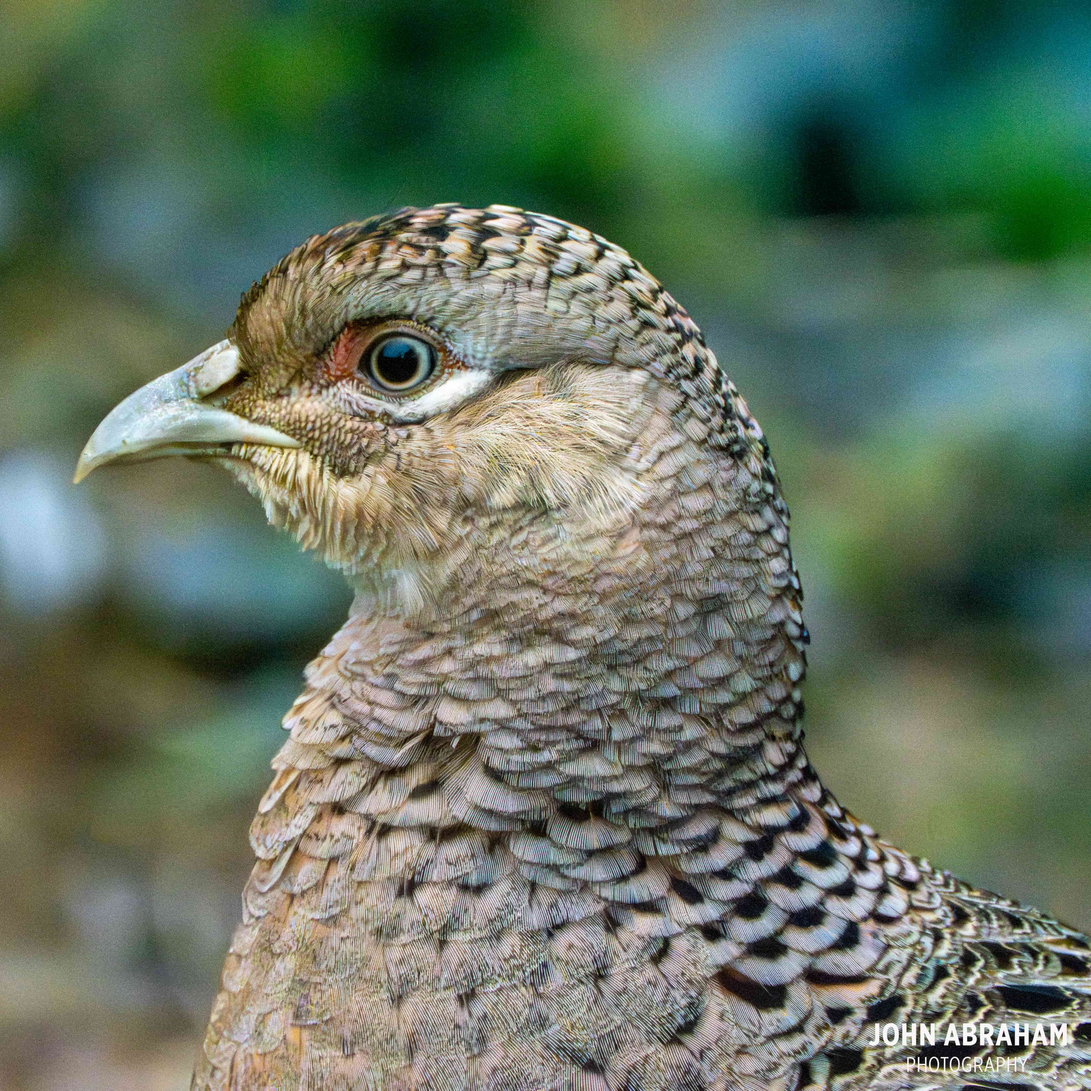
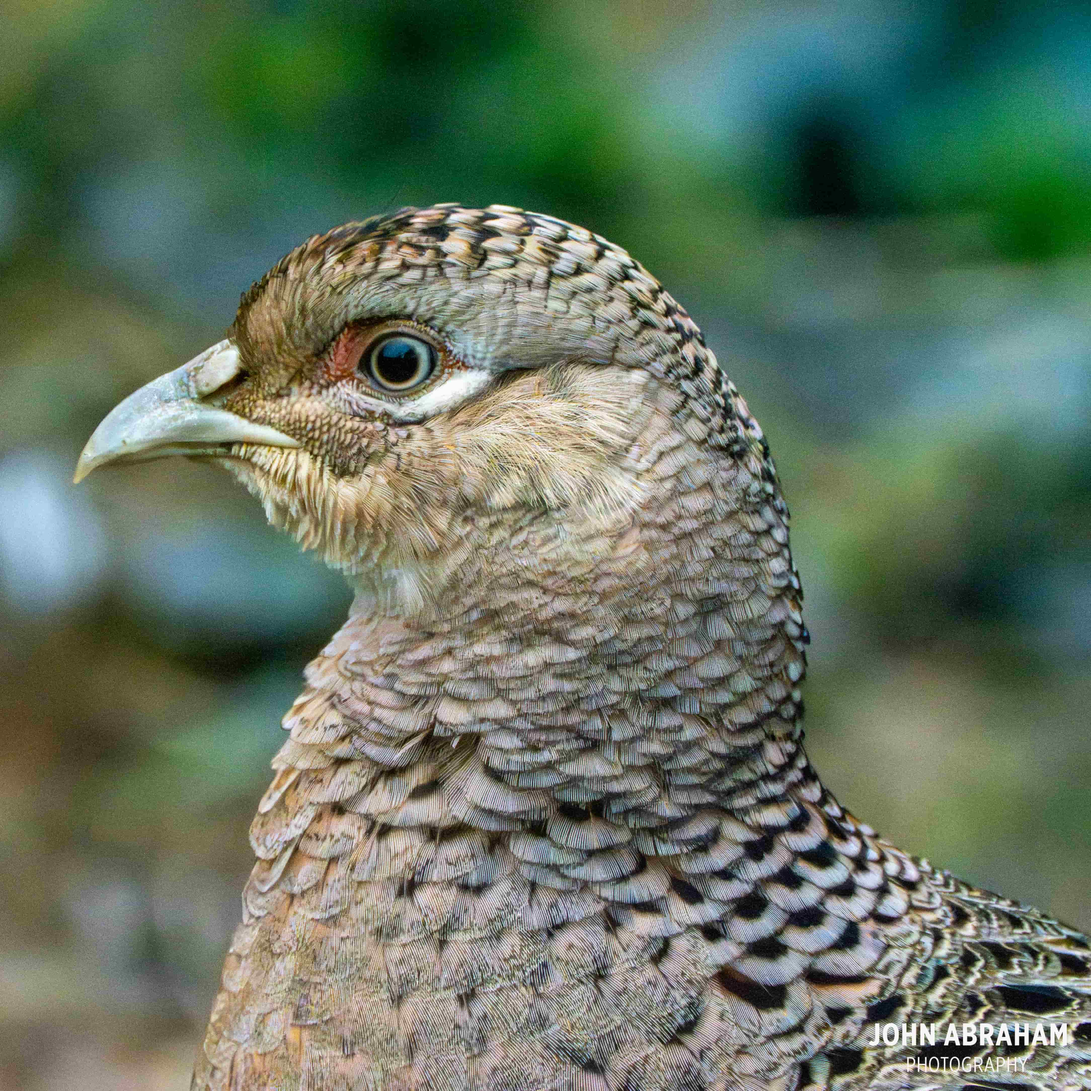
Finished gallery

diff --git a/contact.html b/contact.html
@@ -25,37 +25,37 @@
             <a href="index.html">HOME</a>
             <a href="gallery.html">GALLERY</a>
             <a href="blog.html">BLOG</a>
-            <a href="assets/css/contact.html">CONTACT</a>
+            <a href="contact.html">CONTACT</a>
 
         </nav>
     </header>
 
-    <p>
-        Lorem ipsum dolor sit amet consectetur adipisicing elit. Voluptatibus ex ipsa impedit. Velit est dolor iure, eos
-        et minima qui rem fuga distinctio eum eius nesciunt esse magni quas in?
-        Laborum et accusamus delectus! Inventore nobis, dicta quasi labore officia, distinctio officiis temporibus
-        tempora ratione autem ipsum iusto fugit rerum debitis earum voluptatum minus dolore tenetur, amet placeat ullam.
-        Neque!
-        Exercitationem animi dignissimos nihil ex rem illum. Deleniti repellat repudiandae nam iste nostrum provident
-        molestias rerum vero quia, obcaecati doloribus illo vitae quasi ad incidunt veritatis, ea officia nobis labore!
-        Voluptate hic ad non est temporibus eveniet. Sit et voluptates culpa eum! Aliquam officiis corrupti dolorum
-        aspernatur quia nulla reiciendis laboriosam id recusandae et vitae veniam, qui rerum dignissimos perspiciatis.
-        Suscipit soluta expedita illo. Illo, culpa corporis? Distinctio quia excepturi veniam velit, provident magni
-        cumque non illo voluptatem dicta? Quo cumque blanditiis autem ex enim veritatis totam rem accusamus corporis?
-        Distinctio, magnam eaque consequatur delectus ad libero! Tempora, doloribus ad nulla, ut voluptates voluptate
-        reiciendis qui modi perspiciatis accusantium facere! Perspiciatis, at labore. Ipsam, dolorem illum. Sapiente
-        delectus repellendus libero?
-        Laboriosam explicabo ea ad autem tenetur. Deserunt veniam aspernatur, corrupti voluptate neque earum quasi
-        temporibus dolorem ipsum vero fugit culpa aperiam voluptas repudiandae odit soluta? Esse nobis sed amet soluta.
-        Enim, sit fuga? Commodi iste incidunt itaque dolorum quia, voluptas magnam, consectetur, asperiores minima
-        beatae aut quis neque praesentium laboriosam culpa inventore temporibus eum pariatur excepturi. Quod consequatur
-        deleniti vitae!
-        Est laborum blanditiis nemo perspiciatis eum soluta necessitatibus totam doloribus consectetur explicabo fugit
-        impedit ipsa fugiat temporibus voluptas, quibusdam numquam sint! Fugit quis consectetur repudiandae sunt quos
-        ea, tempora eligendi?
-        Molestiae ab enim distinctio dolore? Itaque iure molestias in! Sed quod labore libero, laborum eius alias atque
-        sapiente suscipit quia. Cum sint provident odio. Fuga fugit odio nisi mollitia itaque?
-    </p>
+    <section class="contactContainer">
+
+        <div class="contactText">
+            <h2>We’re here to help</h2>
+            <p>
+                Whatever your question, we’d love to hear from you.
+                Whether it’s about prints, licensing, wildlife photography, or general enquiries,
+                just drop us a message and we’ll get back to you as soon as we can.
+            </p>
+        </div>
+
+        <form class="contactForm">
+            <label for="name">Name</label>
+            <input type="text" id="name">
+
+            <label for="email">Email</label>
+            <input type="email" id="email">
+
+            <label for="message">Message</label>
+            <textarea id="message"></textarea>
+
+            <button type="submit">Send message</button>
+        </form>
+
+    </section>
+
 
     <footer>
         <img src="assets/images/logo.png" alt="My logo" />

diff --git a/assets/css/index.css b/assets/css/index.css
@@ -198,7 +198,8 @@ figcaption {
 
 }
 
-.galleryImages {
+.galleryImages,
+.galleryImages2 {
     display: flex;
     justify-content: center;
     /* keeps rows centred */
@@ -225,12 +226,85 @@ figcaption {
     box-shadow: 0 10px 25px rgba(0, 0, 0, 0.3);
 }
 
-.galleryImages img:hover {
+.galleryImages img:hover,
+.galleryImages2 img:hover {
     transform: scale(1.5);
     transition: transform 0.4s ease;
     cursor: pointer;
 }
 
+.galleryImages2 img {
+    width: 400px;
+    height: auto;
+
+    border-radius: 10px;
+    box-shadow: 0 10px 25px rgba(0, 0, 0, 0.3);
+}
+
+
+
+.contactContainer {
+    max-width: 1200px;
+    margin-top: 100px;
+    background-color: #68a4f1;
+    padding: 40px 20px;
+    display: flex;
+    gap: 60px;
+    align-items: flex-start;
+}
+
+.contactText {
+    flex: 1;
+    font-size: 20px;
+    line-height: 1.6;
+    color: #061e47;
+}
+
+.contactText h2 {
+    font-size: 36px;
+    margin-bottom: 20px;
+}
+
+.contactForm {
+    flex: 1;
+    display: flex;
+    flex-direction: column;
+    gap: 20px;
+}
+
+.contactForm label {
+    font-weight: bold;
+    font-size: 18px;
+}
+
+.contactForm input,
+.contactForm textarea {
+    padding: 14px;
+    font-size: 18px;
+    border: 2px solid #ccc;
+    border-radius: 8px;
+    font-family: inherit;
+}
+
+.contactForm textarea {
+    height: 150px;
+    resize: vertical;
+}
+
+.contactForm button {
+    padding: 16px;
+    background-color: #2b6ad0;
+    color: white;
+    font-size: 20px;
+    font-weight: bold;
+    border: none;
+    border-radius: 8px;
+    cursor: pointer;
+}
+
+.contactForm button:hover {
+    background-color: #1f4fa0;
+}
 
 
 footer {
@@ -249,6 +323,9 @@ footer {
     padding-top: 0;
 
 }
+
+
+
 
 
 

diff --git a/gallery.html b/gallery.html
@@ -68,18 +68,23 @@
             <div class="galleryImages2">
 
                 <figure>
-                    <img src="assets/images/avocet.jpg" alt="An acocet">
-                    <figcaption>Avocet</figcaption>
+                    <img src="assets/images/sparrowhawk.png" alt="sparrowhawk">
+                    <figcaption>Sparrowhawk</figcaption>
                 </figure>
 
                 <figure>
-                    <img src="assets/images/egyptiangeese.jpg" alt="Egyptian geese">
-                    <figcaption>Egyptian geese</figcaption>
+                    <img src="assets/images/kingfisher.png" alt="kingfisher">
+                    <figcaption>Kingfisher</figcaption>
                 </figure>
 
                 <figure>
-                    <img src="assets/images/gannets.jpg" alt="Gannets">
-                    <figcaption>Gannets</figcaption>
+                    <img src="assets/images/shelduck.jpg" alt="Shelduck">
+                    <figcaption>Shelduck</figcaption>
+                </figure>
+
+                <figure>
+                    <img src="assets/images/reedbunting.jpg" alt="Reed Bunting">
+                    <figcaption>Reed Bunting</figcaption>
                 </figure>
 
             </div>
@@ -120,8 +125,8 @@
                 </figure>
 
                 <figure>
-                    <img src="assets/images/pheasant.jpg" alt="Pheasant">
-                    <figcaption>XXX</figcaption>
+                    <img src="assets/images/stag2.jpg" alt="Stag">
+                    <figcaption>stag</figcaption>
                 </figure>
 
             </div>
